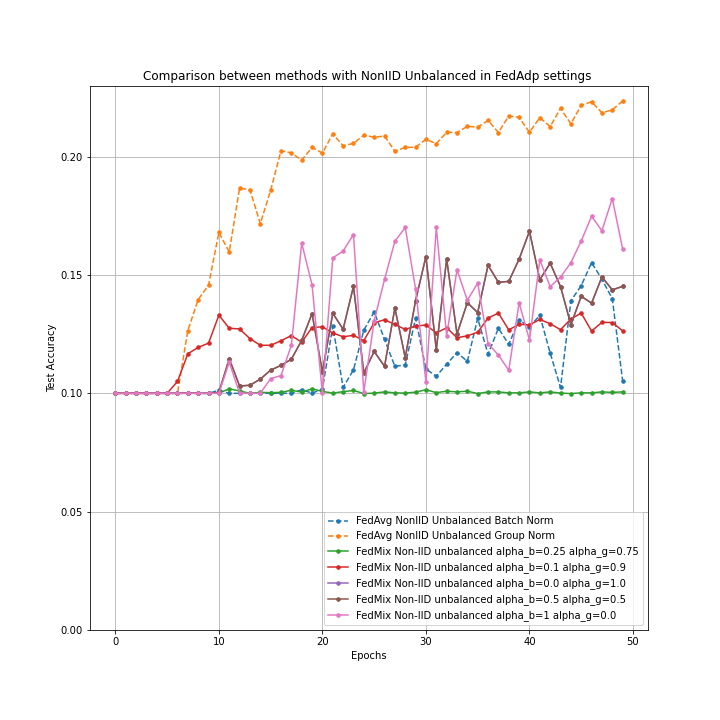
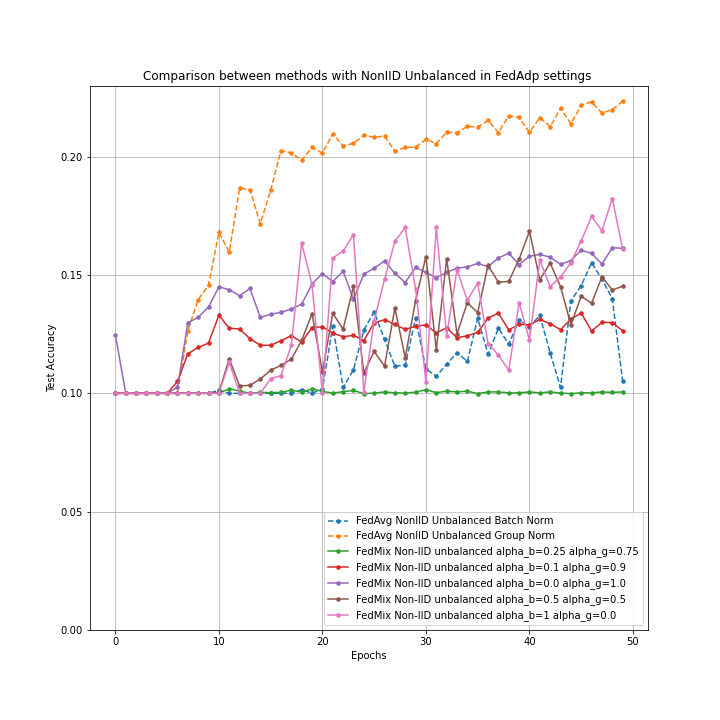
Last commit... for now

diff --git a/PrintGraphs.py b/PrintGraphs.py
@@ -279,7 +279,7 @@ dataAvgBN = pd.read_csv(r'Results\FedADP_unbalanced_results\FedAVG_5_local_ep_No
 dataAvgGN = pd.read_csv(r'Results\FedADP_unbalanced_results\FedAVG_5_local_ep_Norm_Group Norm_iid_0_unbalanced_1_lr_0.01_mom_0.5_epochs_50.csv')
 dataMix025075 = pd.read_csv(r"Results\FedADP_unbalanced_results\FedMix_5_local_ep_iid_0_unbalanced_1_lr_0.01_mom_0.5_epochs_50_alphaB_0.25_alphaG_0.75.csv")
 dataMix0109 = pd.read_csv(r"Results\FedADP_unbalanced_results\FedMix_5_local_ep_iid_0_unbalanced_1_lr_0.01_mom_0.5_epochs_50_alphaB_0.1_alphaG_0.9.csv")
-dataMix0010 = pd.read_csv(r"Results\FedADP_unbalanced_results\FedMix_5_local_ep_iid 0_unbalanced 1_lr 0.01_mom 0.5_epochs 50_alphaB 0.5_alphaG 0.5.csv")
+dataMix0010 = pd.read_csv(r"Results\FedADP_unbalanced_results\FedMix_5_local_ep_iid 0_unbalanced 1_lr 0.01_mom 0.5_epochs 50_alphaB 0.0_alphaG 1.0.csv")
 dataMix0505 = pd.read_csv(r"Results\FedADP_unbalanced_results\FedMix_5_local_ep_iid 0_unbalanced 1_lr 0.01_mom 0.5_epochs 50_alphaB 0.5_alphaG 0.5.csv")
 dataMix1000 = pd.read_csv(r"Results\FedADP_unbalanced_results\FedMix_5_local_ep_iid 0_unbalanced 1_lr 0.01_mom 0.5_epochs 50_alphaB 1.0_alphaG 0.0.csv")
 
